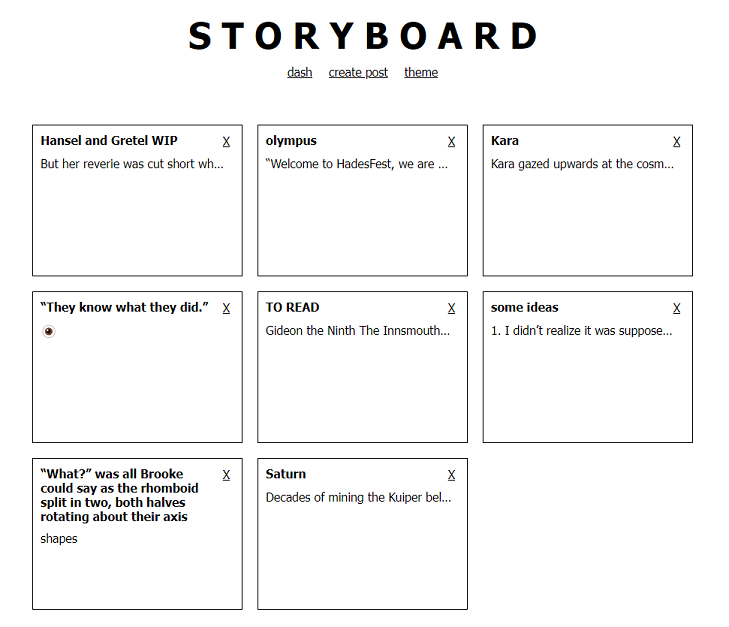
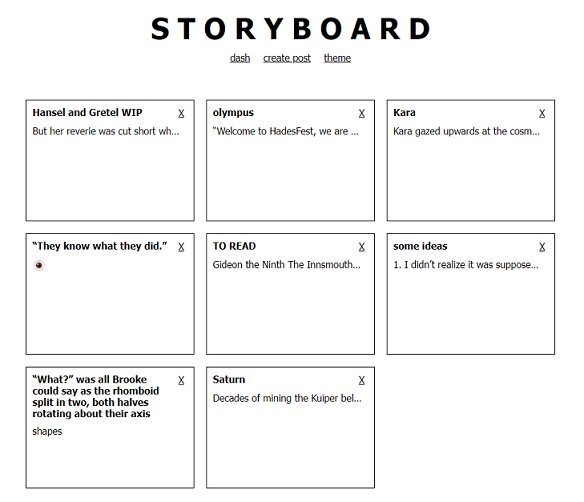
testing resize

diff --git a/README.md b/README.md
@@ -3,7 +3,7 @@
 ## Summary
 STORYBOARD is an interactive writer’s portfolio to post ideas / work-in-progress and offer feedback. 
 
-![storyboard-dash](./screenshots/storyboard-dash.png)
+![storyboard-dash](./screenshots/storyboard-dash.png =584x502)
 
 ## How to Get Started
 1. [ ] Run this application in your local server port `3000` through the command `npm run dev` in your terminal
